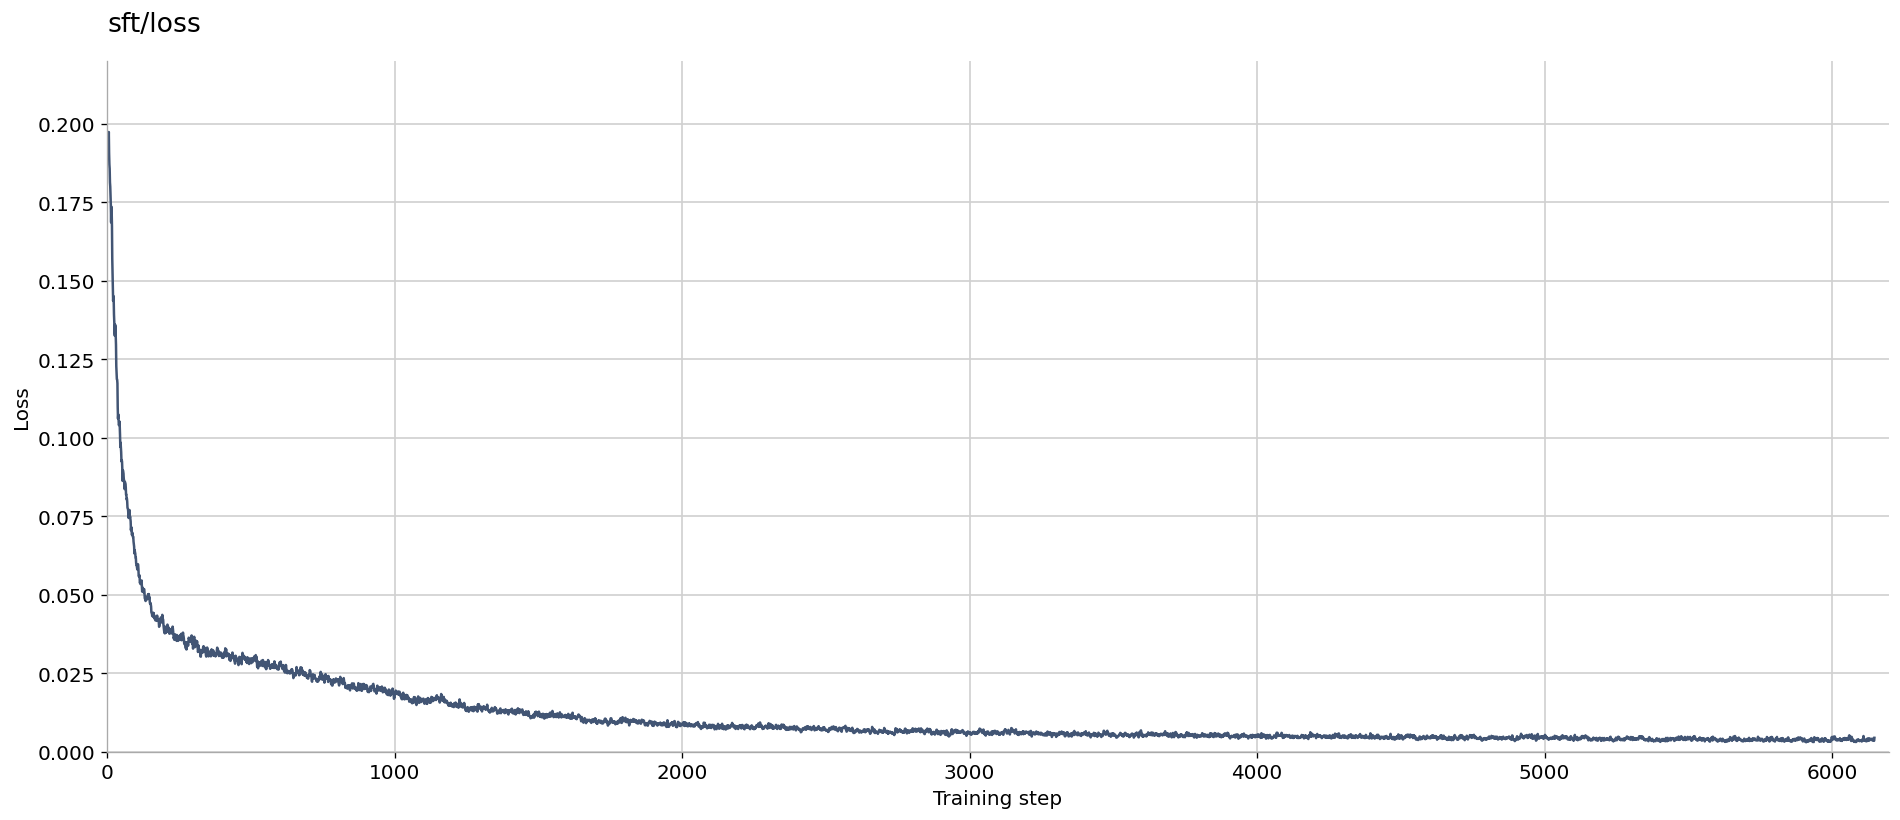
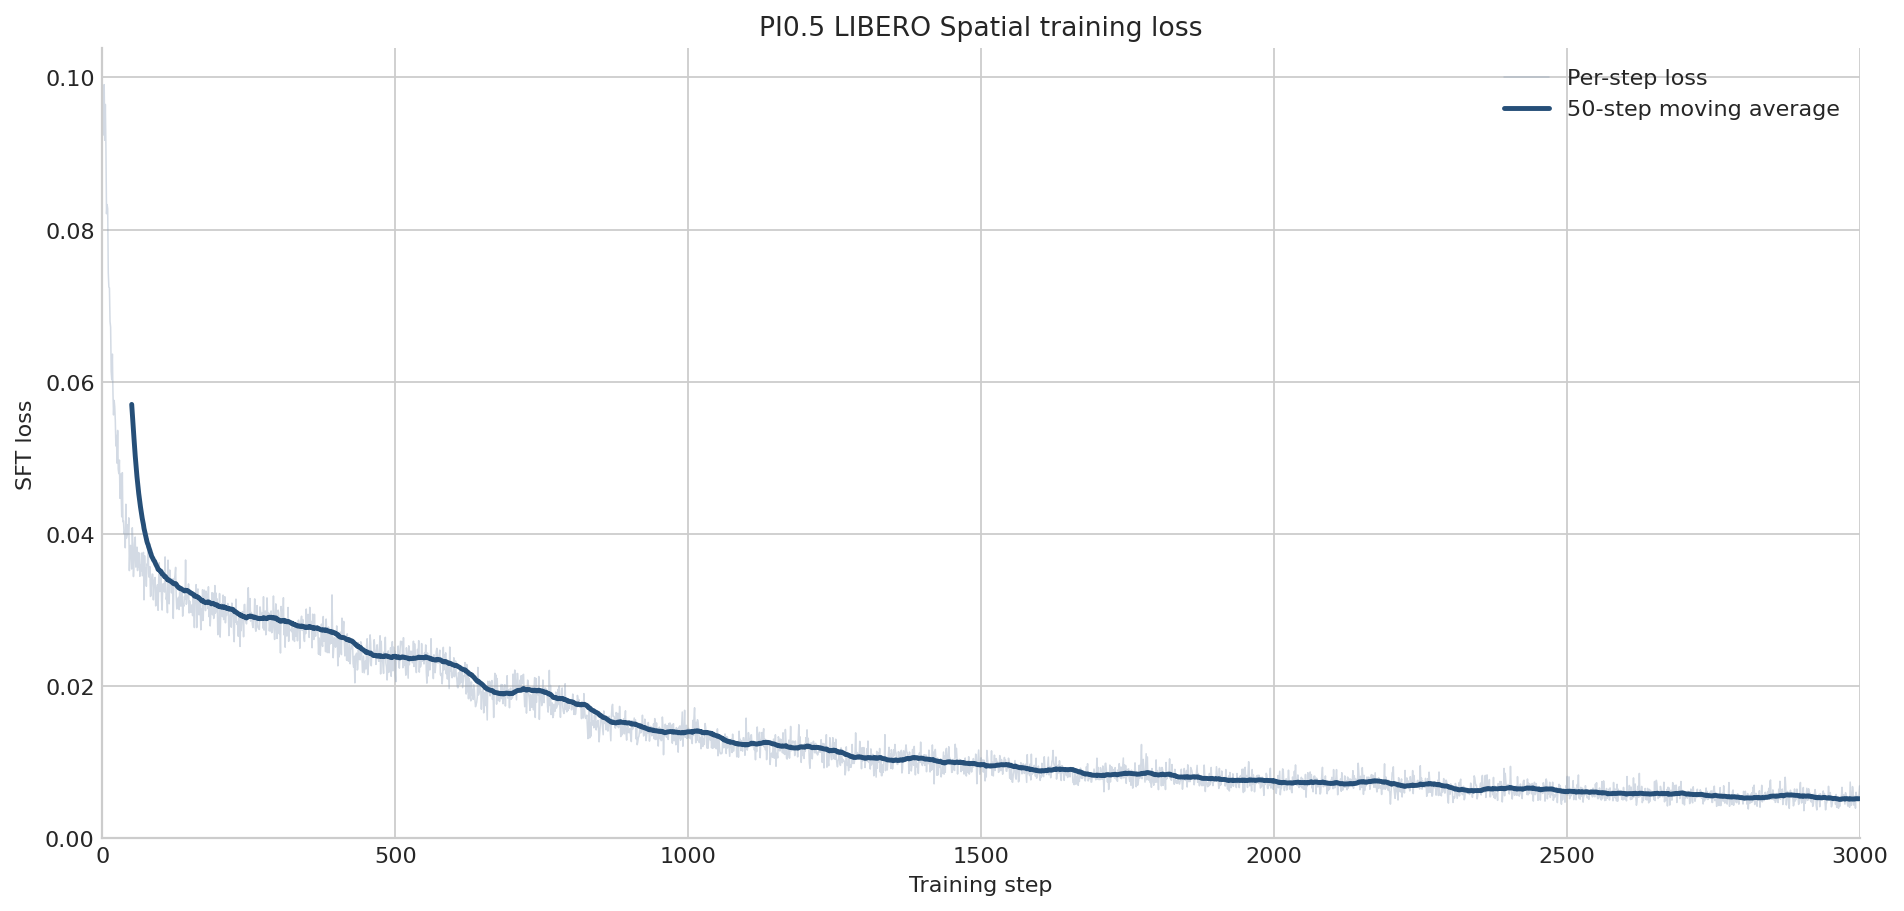
[doc] feat: add PI0.5 SFT checkpoint curves

diff --git a/docs/fine-tuning/pi05/libero-spatial.md b/docs/fine-tuning/pi05/libero-spatial.md
@@ -28,12 +28,6 @@ python scripts/install_libero_assets.py
 python scripts/install_checks/check_libero.py
 ```
 
-LeRobot is installed without dependency resolution because LeRobot 0.4.4
-requires `rerun-sdk>=0.24`, whose Linux wheels require NumPy 2, while verl
-0.7.1 requires NumPy 1. The preceding requirements file supplies the verified
-runtime versions. Keep `.venv` activated when running the training and
-evaluation launchers.
-
 ## Start training
 
 ```bash
@@ -89,10 +83,11 @@ statistics and training outputs are reused from the training output directory.
 | Micro-batch size | 16 |
 | DataLoader workers | 8 |
 | Action horizon | 10 |
-| Epochs | 25 (approximately 5,150 steps) |
+| Epochs | 15 (approximately 3,090 steps) |
 | Learning rate | `1e-4` |
 | Weight decay | `1e-5` |
 | Warmup ratio | `0.05` |
+| Checkpoint interval | 100 steps |
 | Distributed strategy | FSDP2 |
 | Model dtype | BF16 |
 | Output | `outputs/train/pi05-sft/libero-spatial` |
@@ -102,7 +97,7 @@ statistics and training outputs are reused from the training output directory.
 A running job reports loss and gradient metrics in the console:
 
 ```text
-Training Progress: 1/5150 ... grad_pre=... sft_loss=...
+Training Progress: 1/3090 ... grad_pre=... sft_loss=...
 ```
 
 Event files are written to:
@@ -136,11 +131,12 @@ GPU utilization can be inspected from another terminal:
 watch -n 1 nvidia-smi
 ```
 
-The loss curve from a reference run is shown below:
+The reference run's per-step loss and 50-step moving average through step 3,000
+are shown below:
 
 ![PI0.5 LIBERO Spatial SFT loss](../../_static/images/pi05-libero-spatial-sft-loss.png)
 
-## Evaluate the checkpoint
+## Evaluate checkpoints
 
 The evaluation launcher reads the latest saved checkpoint and runs the full
 LIBERO Spatial benchmark:
@@ -149,7 +145,28 @@ LIBERO Spatial benchmark:
 bash examples/fine_tuning/pi05/run_eval.sh
 ```
 
-The reference run evaluated all 10 tasks with 10 trials per task:
+The reference run evaluated all 10 tasks with 10 trials per task at every
+100-step checkpoint. Each point below therefore summarizes 100 trajectories:
+
+![PI0.5 LIBERO Spatial SFT checkpoint success rate](../../_static/images/pi05-libero-spatial-sft-success-rate.png)
+
+| Step | Success | Step | Success | Step | Success |
+| ---: | ---: | ---: | ---: | ---: | ---: |
+| 100 | 54% | 1,100 | 96% | 2,100 | 98% |
+| 200 | 72% | 1,200 | 96% | 2,200 | 98% |
+| 300 | 76% | 1,300 | 97% | 2,300 | 98% |
+| 400 | 86% | 1,400 | 95% | 2,400 | 100% |
+| 500 | 88% | 1,500 | 96% | 2,500 | 100% |
+| 600 | 95% | 1,600 | 96% | 2,600 | 97% |
+| 700 | 87% | 1,700 | 97% | 2,700 | 96% |
+| 800 | 93% | 1,800 | 98% | 2,800 | 96% |
+| 900 | 97% | 1,900 | 99% | 2,900 | 99% |
+| 1,000 | 97% | 2,000 | 98% | 3,000 | 100% |
+
+Success first reached 100% at step 2,400 and did so again at steps 2,500 and
+3,000. Step 2,500 is the recommended checkpoint because it combined 100%
+success with the shortest mean successful trajectory among those three
+checkpoints. Its full evaluation result is:
 
 | Metric | Value |
 | --- | ---: |
@@ -158,10 +175,9 @@ The reference run evaluated all 10 tasks with 10 trials per task:
 | Successful trajectories | 100 / 100 |
 | Success rate | 100% |
 | Average return | 1.0 |
-| Average successful trajectory length | 98.72 |
-| Average successful trajectory chunk length | 10.34 |
-| Total evaluation time | 51.69 seconds |
+| Average successful trajectory length | 98.89 |
+| Average successful trajectory chunk length | 10.32 |
 
-Every task achieved a 100% success rate. The
+Every task achieved a 100% success rate at step 2,500. The
 [complete evaluation metrics](../../_static/results/pi05-libero-spatial-eval.json)
 include per-task trajectory lengths, counts, timing, and throughput.
